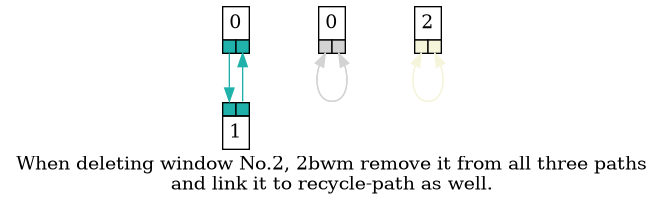
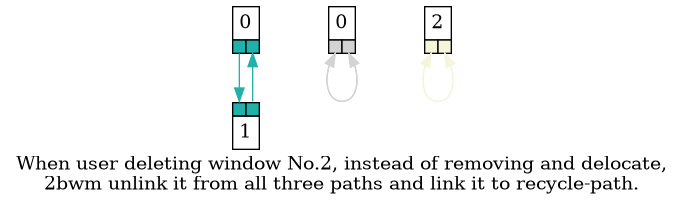
2020-04-07 10:06:52

diff --git a/config.h b/config.h
@@ -64,6 +64,7 @@ static const uint8_t borders[] = {3,5,5,4};
 static const char *ignore_names[] = {"bar", "xclock"};
 ///--Menus and Programs---//
 static const char *menucmd[] = { "/usr/local/bin/menu", NULL };
+static const char *testcmd[] = { "/usr/local/bin/2bwm.verify", NULL };
 static const char *termcmd[] = { "/bin/urxvt","-b","40","+sb","-lsp","8","-g","90x40+1400+600", NULL };
 ///--Custom foo---///
 static void halfandcentered(const Arg *arg)
@@ -188,8 +189,8 @@ static key keys[] = {
 //    {  MOD ,              XK_v,          nextworkspace,     {}},
 //    {  MOD ,              XK_c,          prevworkspace,     {}},
 // Move to Next/Previous workspace
-{  MOD |SHIFT ,       XK_v,          sendtonextworkspace,{}},
-{  MOD |SHIFT ,       XK_c,          sendtoprevworkspace,{}},
+// {  MOD |SHIFT ,       XK_v,          sendtonextworkspace,{}},
+// {  MOD |SHIFT ,       XK_c,          sendtoprevworkspace,{}},
 // Iconify the window
 // Make the window unkillable
 {  MOD ,              XK_a,          unkillablewin,        {}},
@@ -209,6 +210,7 @@ static key keys[] = {
 {  MOD |SHIFT,        XK_Left,       cursor_move,       {.i=TWOBWM_CURSOR_LEFT}},
 // Start programs
 {  MOD ,              XK_Return,     start,             {.com = termcmd}},
+{  MOD |SHIFT,        XK_v,          start,             {.com = testcmd}},
 {  MOD ,              XK_w,          start,             {.com = termcmd}},
 {  MOD ,              XK_m,          start,             {.com = menucmd}},
 {  MOD ,              XK_o,          selectwindows,     {.i=TWOBWM_SELECT}},

diff --git a/src/config.h b/src/config.h
@@ -64,6 +64,7 @@ static const uint8_t borders[] = {3,5,5,4};
 static const char *ignore_names[] = {"bar", "xclock"};
 ///--Menus and Programs---//
 static const char *menucmd[] = { "/usr/local/bin/menu", NULL };
+static const char *testcmd[] = { "/usr/local/bin/2bwm.verify", NULL };
 static const char *termcmd[] = { "/bin/urxvt","-b","40","+sb","-lsp","8","-g","90x40+1400+600", NULL };
 ///--Custom foo---///
 static void halfandcentered(const Arg *arg)
@@ -188,8 +189,8 @@ static key keys[] = {
 //    {  MOD ,              XK_v,          nextworkspace,     {}},
 //    {  MOD ,              XK_c,          prevworkspace,     {}},
 // Move to Next/Previous workspace
-{  MOD |SHIFT ,       XK_v,          sendtonextworkspace,{}},
-{  MOD |SHIFT ,       XK_c,          sendtoprevworkspace,{}},
+// {  MOD |SHIFT ,       XK_v,          sendtonextworkspace,{}},
+// {  MOD |SHIFT ,       XK_c,          sendtoprevworkspace,{}},
 // Iconify the window
 // Make the window unkillable
 {  MOD ,              XK_a,          unkillablewin,        {}},
@@ -209,6 +210,7 @@ static key keys[] = {
 {  MOD |SHIFT,        XK_Left,       cursor_move,       {.i=TWOBWM_CURSOR_LEFT}},
 // Start programs
 {  MOD ,              XK_Return,     start,             {.com = termcmd}},
+{  MOD |SHIFT,        XK_v,          start,             {.com = testcmd}},
 {  MOD ,              XK_w,          start,             {.com = termcmd}},
 {  MOD ,              XK_m,          start,             {.com = menucmd}},
 {  MOD ,              XK_o,          selectwindows,     {.i=TWOBWM_SELECT}},

diff --git a/README.md b/README.md
@@ -2,7 +2,7 @@
 
 ## 2bwm:
 A fast floating Window Manager using XCB. 
-This repo is based on a fork from ![2bwm](https://github.com/venam/2bwm).
+This repo is based on a fork from [2bwm](https://github.com/venam/2bwm).
 With a new data structure, more features have been developed.
 
 ## New Features:
@@ -49,7 +49,7 @@ Each pull request with new features should come together with new test cases.
 # Execute 2bwm.verify from a application launcher e.g: [dmenu] [rofi]
 # Test cases will occupy first and second workspaces on your display.
 ```
-You may also optionally using [stimy](https://github.com/netcrop/stimy/tree/master) to generate run-time call-grap has a tool for the source code level whitebox testing.  
+You may also optionally using [stimy](https://github.com/netcrop/stimy) to generate run-time call-graph has a tool for the source code level whitebox testing.  
 
 ## Releases:
 **arch** is the latest developing **branch**.
